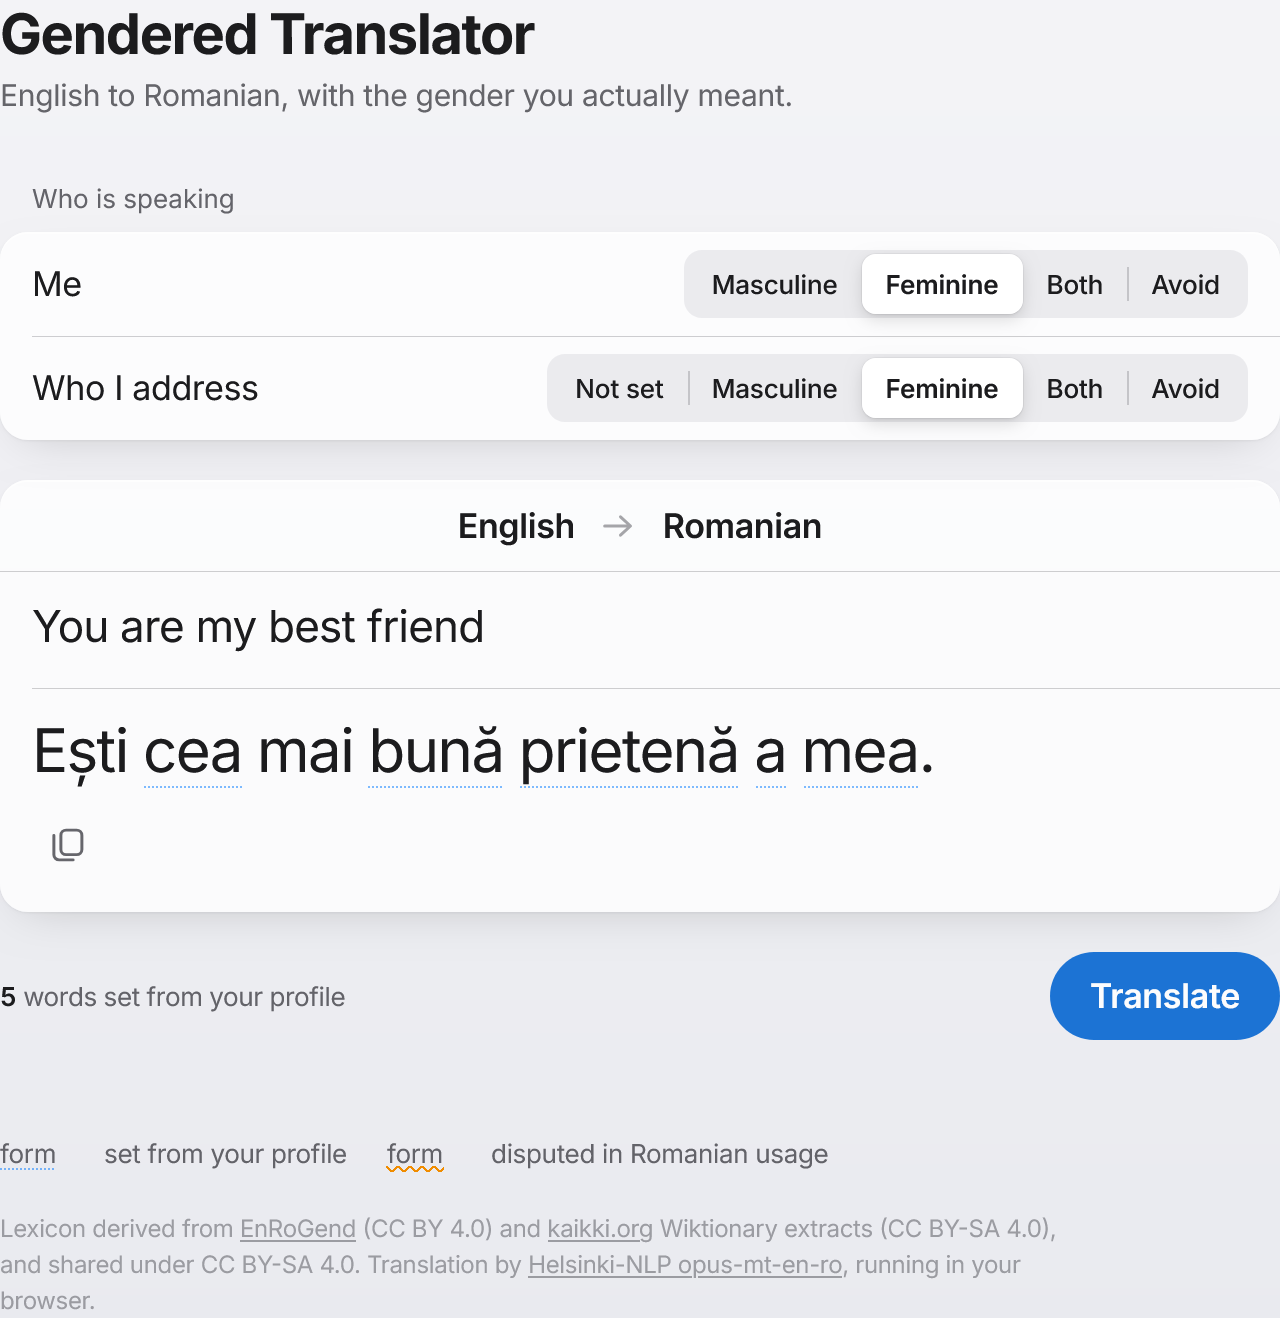
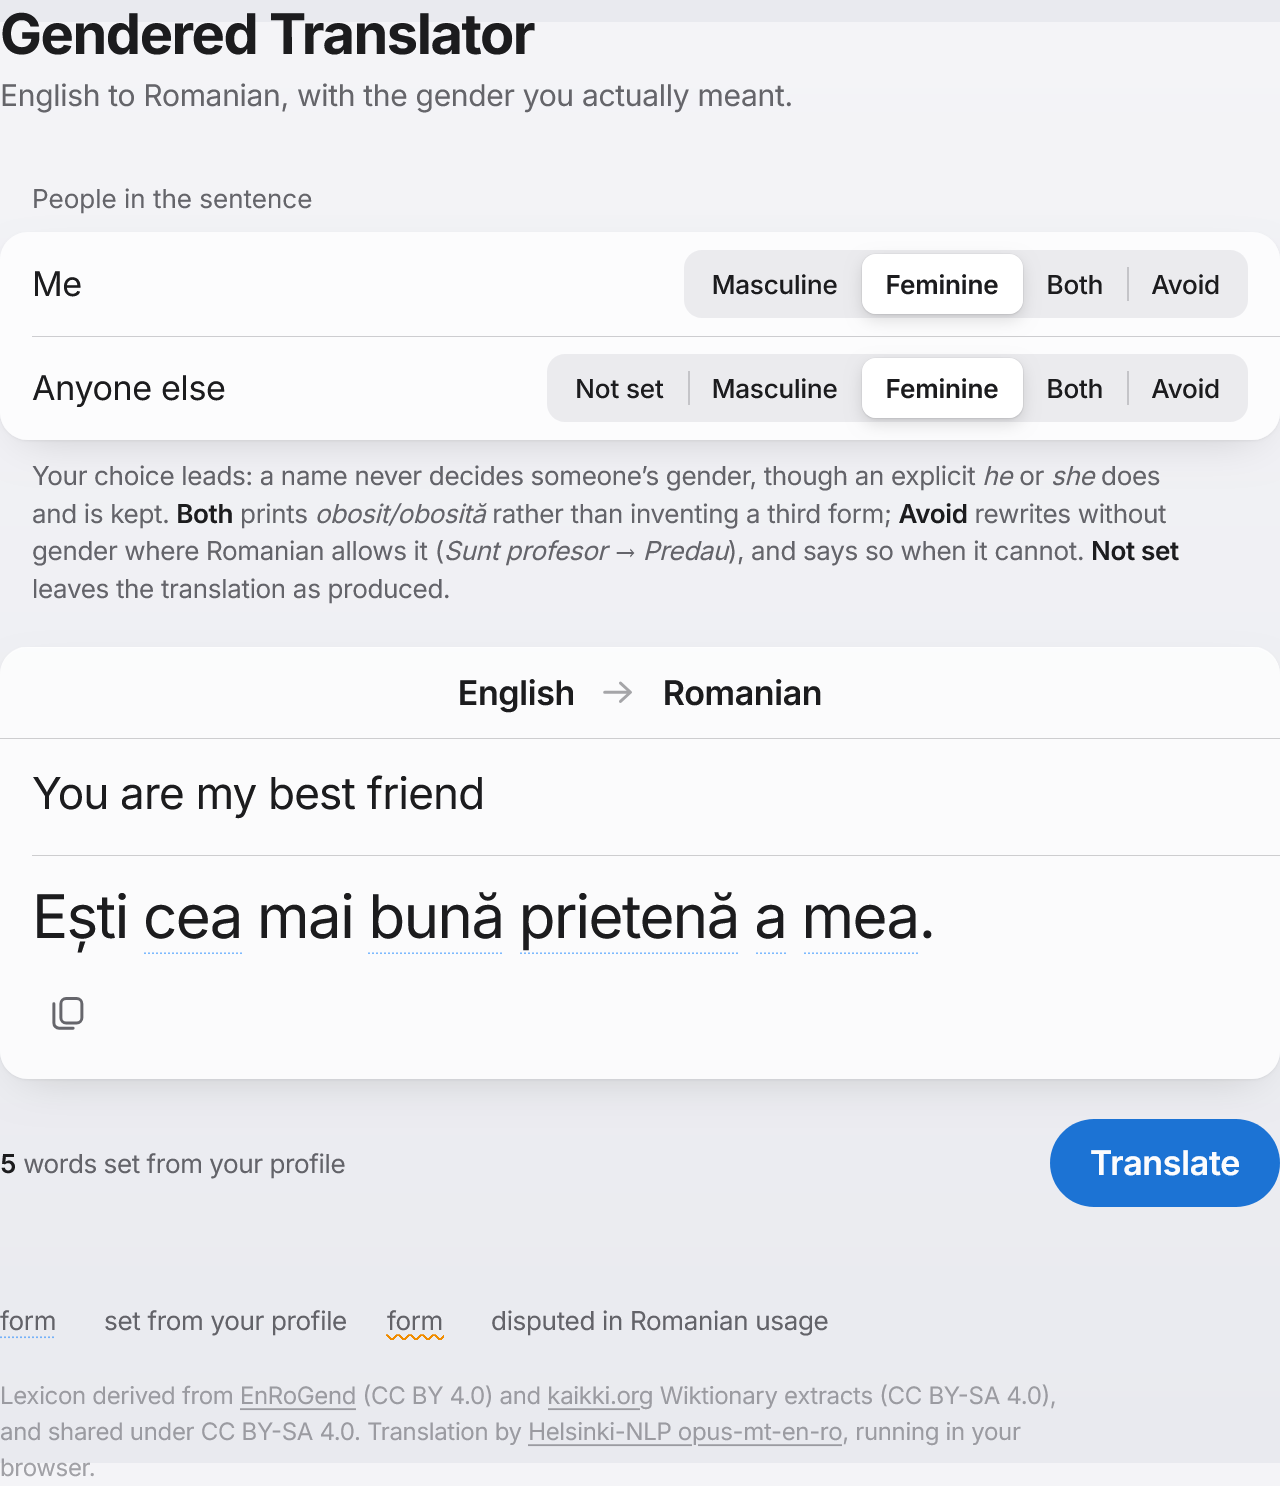
fix: your selection now governs third parties, not the model's guess at a name
A name gave the model nothing to go on, so it guessed -- and measured across
androgynous names (Alex, Sam, Jordan) it guessed masculine every time, which is
the exact default this app exists to correct.

- Third-person clauses now follow the 'Anyone else' setting.
- An explicit 'el'/'ea' is still never overridden: the source said he or she,
  and rewriting it would produce ungrammatical output.
- Leaving 'Anyone else' unset keeps the translation as produced.
- Restores the explanatory footer, silently dropped in the Apple redesign.

diff --git a/src/ro/postedit.ts b/src/ro/postedit.ts
@@ -101,8 +101,11 @@ export function findGendered(text: string): Candidate[] {
   return out;
 }
 
-/** Whose gender a predicate agrees with. */
-export type Role = 'speaker' | 'addressee';
+/**
+ * Whose gender a predicate agrees with. 'other' is a third party -- someone
+ * named or referred to rather than speaking or spoken to.
+ */
+export type Role = 'speaker' | 'addressee' | 'other';
 
 /**
  * What to do about one person's gender.
@@ -117,14 +120,20 @@ const SECOND_PERSON = new Set(['ești', 'esti', 'sunteți', 'sunteti', 'erai', '
 const THIRD_PERSON = new Set(['este', 'e', 'era', 'erau']);
 /** Perfect auxiliaries, recognised only when they actually head a compound past. */
 const PERFECT: Record<string, Role | null> = {
-  am: 'speaker', ai: 'addressee', 'ați': 'addressee', ati: 'addressee', a: null, au: null,
+  am: 'speaker', ai: 'addressee', 'ați': 'addressee', ati: 'addressee',
+  a: 'other', au: 'other',
 };
 /** Anything that starts a new clause ends the current agreement span. */
 const BOUNDARY = new Set([
   'și', 'si', 'dar', 'iar', 'însă', 'insa', 'sau', 'ori',
   'care', 'că', 'ca', 'fiindcă', 'deoarece', 'pentru', 'când', 'cand', 'dacă', 'daca',
 ]);
-const THIRD_PERSON_SUBJECT = new Set(['el', 'ea', 'ei', 'ele', 'dumnealui', 'dumneaei']);
+/**
+ * An explicit pronoun already states the gender, so it is never overridden --
+ * "el este bună" is nonsense. A *name* states nothing we can read, which is
+ * why "Maya is my friend" is ours to decide and "he is my friend" is not.
+ */
+const GENDERED_PRONOUN = new Set(['el', 'ea', 'ei', 'ele', 'dumnealui', 'dumneaei']);
 
 /** A copula and the predicate that agrees with its subject. */
 type Span = { role: Role; copula: number; end: number };
@@ -160,15 +169,27 @@ function analyze(tokens: string[]): { roles: (Role | null)[]; spans: Span[] } {
     const next = i + 1 < tokens.length ? bare(tokens[i + 1]!).toLowerCase() : '';
     const prev = i > 0 ? bare(tokens[i - 1]!).toLowerCase() : '';
 
+    // A clause whose subject is an explicit pronoun keeps the gender the
+    // pronoun states; only a named or unnamed third party is ours to set.
+    const third = (role: Role) => start(GENDERED_PRONOUN.has(prev) ? null : role, i);
+
     // "am fost" opens a span; a bare "a" or "ai" is a possessive article.
-    if (next === 'fost' && word in PERFECT) { start(PERFECT[word] ?? null, i); continue; }
+    if (next === 'fost' && word in PERFECT) {
+      const role = PERFECT[word];
+      if (role === 'other') third('other');
+      else start(role ?? null, i);
+      continue;
+    }
     if (word === 'fost') { if (open) open.end = i; continue; }
     if (FIRST_PERSON.has(word)) {
-      start(THIRD_PERSON_SUBJECT.has(prev) ? null : 'speaker', i);  // "ei sunt obositi" is not us
+      // "sunt" is also 3rd plural: "ei sunt obositi" is not about us.
+      if (GENDERED_PRONOUN.has(prev)) open = undefined;
+      else start('speaker', i);
       continue;
     }
     if (SECOND_PERSON.has(word)) { start('addressee', i); continue; }
-    if (THIRD_PERSON.has(word) || BOUNDARY.has(word)) { open = undefined; continue; }
+    if (THIRD_PERSON.has(word)) { third('other'); continue; }
+    if (BOUNDARY.has(word)) { open = undefined; continue; }
 
     if (open) { roles[i] = open.role; open.end = i; }
     if (/[,;.!?]$/.test(raw)) open = undefined;
@@ -212,7 +233,7 @@ export function applyGender(text: string, speaker: Target, addressee?: Target): 
   return { ...primary, text: m.text, variants: [m.text, f.text] };
 }
 
-function edit(text: string, speaker: Target, addressee?: Target): Omit<PostEdit, 'variants'> {
+function edit(text: string, speaker: Target, other?: Target): Omit<PostEdit, 'variants'> {
   const tokens = text.split(/\s+/);
   const candidates = findGendered(text);
   const { roles, spans } = analyze(tokens);
@@ -224,7 +245,7 @@ function edit(text: string, speaker: Target, addressee?: Target): Omit<PostEdit,
   const replaced = new Map<number, string>();
   const dropped = new Set<number>();
   for (const span of spans) {
-    if ((span.role === 'speaker' ? speaker : addressee) !== 'avoid') continue;
+    if ((span.role === 'speaker' ? speaker : other) !== 'avoid') continue;
     const lemma = candidates
       .filter((c) => c.index > span.copula && c.index <= span.end)
       .flatMap((c) => c.options.map((o) => o.lemma))
@@ -241,7 +262,7 @@ function edit(text: string, speaker: Target, addressee?: Target): Omit<PostEdit,
   for (const c of candidates) {
     if (dropped.has(c.index) || replaced.has(c.index)) continue;
     const role = roles[c.index] ?? null;
-    const wanted = role === 'speaker' ? speaker : role === 'addressee' ? addressee : undefined;
+    const wanted = role === 'speaker' ? speaker : role ? other : undefined;
     // An avoid that found no paraphrase degrades to showing both forms.
     const target = wanted === 'avoid' ? 'both' : wanted;
     if (!target) continue;
@@ -271,8 +292,7 @@ function edit(text: string, speaker: Target, addressee?: Target): Omit<PostEdit,
   for (const c of display) {
     const role = finalRoles[c.index] ?? null;
     c.role = role ?? undefined;
-    c.autoApplied = Boolean(
-      role === 'speaker' ? speaker : role === 'addressee' ? addressee : undefined);
+    c.autoApplied = Boolean(role === 'speaker' ? speaker : role ? other : undefined);
   }
   return { text: finalText, candidates: display, changed, fellBack };
 }

diff --git a/test/ro-third-person.test.ts b/test/ro-third-person.test.ts
@@ -1,0 +1,32 @@
+import { test } from 'node:test';
+import assert from 'node:assert/strict';
+import { applyGender } from '../src/ro/postedit.ts';
+
+test('a name in the sentence does not override the selection', () => {
+  // Reported bug: the model infers gender from "Maya" or "Josh" and the user's
+  // choice was ignored, because a third-person clause was left untouched.
+  assert.equal(applyGender('Maya e prietena mea.', 'M', 'M').text, 'Maya e prietenul meu.');
+  assert.equal(applyGender('Josh este prietenul meu.', 'M', 'F').text, 'Josh este prietena mea.');
+});
+
+test('with the other person not set, the model output is left alone', () => {
+  // The one case where the name still decides: we were told nothing better.
+  assert.equal(applyGender('Maya e prietena mea.', 'M').text, 'Maya e prietena mea.');
+  assert.equal(applyGender('Josh este prietenul meu.', 'F').text, 'Josh este prietenul meu.');
+});
+
+test('the speaker clause is still governed by the speaker', () => {
+  assert.equal(
+    applyGender('Sunt obosit și Maya e prietena mea.', 'F', 'M').text,
+    'Sunt obosită și Maya e prietenul meu.',
+  );
+});
+
+test('second and third person share the one setting', () => {
+  assert.equal(applyGender('Ești prietenul meu.', 'M', 'F').text, 'Ești prietena mea.');
+  assert.equal(applyGender('Maya e prietena mea.', 'M', 'F').text, 'Maya e prietena mea.');
+});
+
+test('avoiding gender still applies to the other person', () => {
+  assert.equal(applyGender('Maya e profesor.', 'M', 'both').text, 'Maya e profesor/profesoară.');
+});

diff --git a/index.html b/index.html
@@ -23,7 +23,7 @@
 
   <form id="form">
     <!-- Inset grouped list: label left, control right, separators inset. -->
-    <h2 class="group-header">Who is speaking</h2>
+    <h2 class="group-header">People in the sentence</h2>
     <div class="group">
       <div class="row">
         <span class="row-label" id="speakerLabel">Me</span>
@@ -35,7 +35,7 @@
         </div>
       </div>
       <div class="row">
-        <span class="row-label" id="addresseeLabel">Who I address</span>
+        <span class="row-label" id="addresseeLabel">Anyone else</span>
         <div class="seg" role="radiogroup" aria-labelledby="addresseeLabel">
           <label><input type="radio" name="addressee" value="" checked><span>Not set</span></label>
           <label><input type="radio" name="addressee" value="M"><span>Masculine</span></label>
@@ -45,6 +45,15 @@
         </div>
       </div>
     </div>
+
+    <p class="group-footer">
+      Your choice leads: a name never decides someone&rsquo;s gender, though an explicit
+      <i>he</i> or <i>she</i> does and is kept. <b>Both</b> prints
+      <i lang="ro">obosit/obosită</i> rather than inventing a third form;
+      <b>Avoid</b> rewrites without gender where Romanian allows it
+      (<i lang="ro">Sunt profesor</i> &rarr; <i lang="ro">Predau</i>), and says so when it
+      cannot. <b>Not set</b> leaves the translation as produced.
+    </p>
 
     <div class="group panel">
       <div class="langbar">

diff --git a/src/ui/main.ts b/src/ui/main.ts
@@ -132,7 +132,7 @@ function describe({ applied, untouched, fellBack }: Rendered): void {
   meta.replaceChildren();
   if (!applied && !untouched) { meta.textContent = 'No gendered words recognised.'; return; }
   meta.append(strong(applied), applied === 1 ? ' word set from your profile' : ' words set from your profile');
-  if (untouched) meta.append(' · ', strong(untouched), ' about someone else, left alone');
+  if (untouched) meta.append(' · ', strong(untouched), ' left as translated');
   if (fellBack) meta.append(' · no gender-free wording exists here, so both forms are shown');
 }
 

diff --git a/src/ui/styles.css b/src/ui/styles.css
@@ -97,6 +97,15 @@ h1 {
              0 8px 24px -12px rgba(0,0,0,.2),
              inset 0 .5px 0 var(--highlight);
 }
+/* Explanatory text under a group, as iOS Settings does it. */
+.group-footer {
+  margin:var(--s2) var(--s4) 0; max-width:36rem;
+  font-size:var(--t-footnote); line-height:1.45; color:var(--label-2);
+}
+.group-footer b { font-weight:600; color:var(--label); }
+.group-footer i { font-style:italic; }
+.group-footer + .panel { margin-top:var(--s5); }
+
 .group + .group-header { margin-top:var(--s6); }
 .group + .group { margin-top:var(--s5); }
 

diff --git a/notes/R7-app.md b/notes/R7-app.md
@@ -65,3 +65,36 @@ that pair. It is still arbitrary across persons (*Sunt obosit* for the speaker,
 `npm run build` emits `dist/`, which is a plain static folder. `base` is `'./'`,
 so it works from a domain root or a project subpath without reconfiguration.
 HTTPS is required for the service worker and for installation.
+
+## Names are a guess, not evidence
+
+Reported: "Maya is my friend" always came out feminine and "Josh is my friend"
+always masculine, whatever the user had selected. The post-editor was behaving
+as designed — a third-person clause was deliberately left alone — but the effect
+was that the model's guess about a name silently beat the user's explicit choice.
+
+Measured, with nothing in the English to go on:
+
+| name | model guessed |
+|---|---|
+| Alex | masculine |
+| Sam | masculine |
+| Jordan | masculine |
+| Robin | feminine |
+| Andrea | feminine |
+
+**Every genuinely androgynous name came out masculine.** The model falls back to
+the masculine default when it cannot tell, which is the exact bias this app
+exists to correct. `Andrea` is worse still: it guessed feminine, and *Andrea* is
+a male name in Romanian and Italian.
+
+So the user's setting now governs third parties too, not only the speaker and
+the person addressed. The second control is relabelled **Anyone else** to say so.
+
+One distinction kept: **an explicit pronoun is never overridden.** If the
+Romanian says *el* or *ea*, the English said *he* or *she*, and that is real
+information — overriding it would produce `el este bună`, which is ungrammatical.
+A name carries no such information. `GENDERED_PRONOUN` is the guard.
+
+Leaving **Anyone else** unset keeps the previous behaviour: whatever the model
+produced stands.
